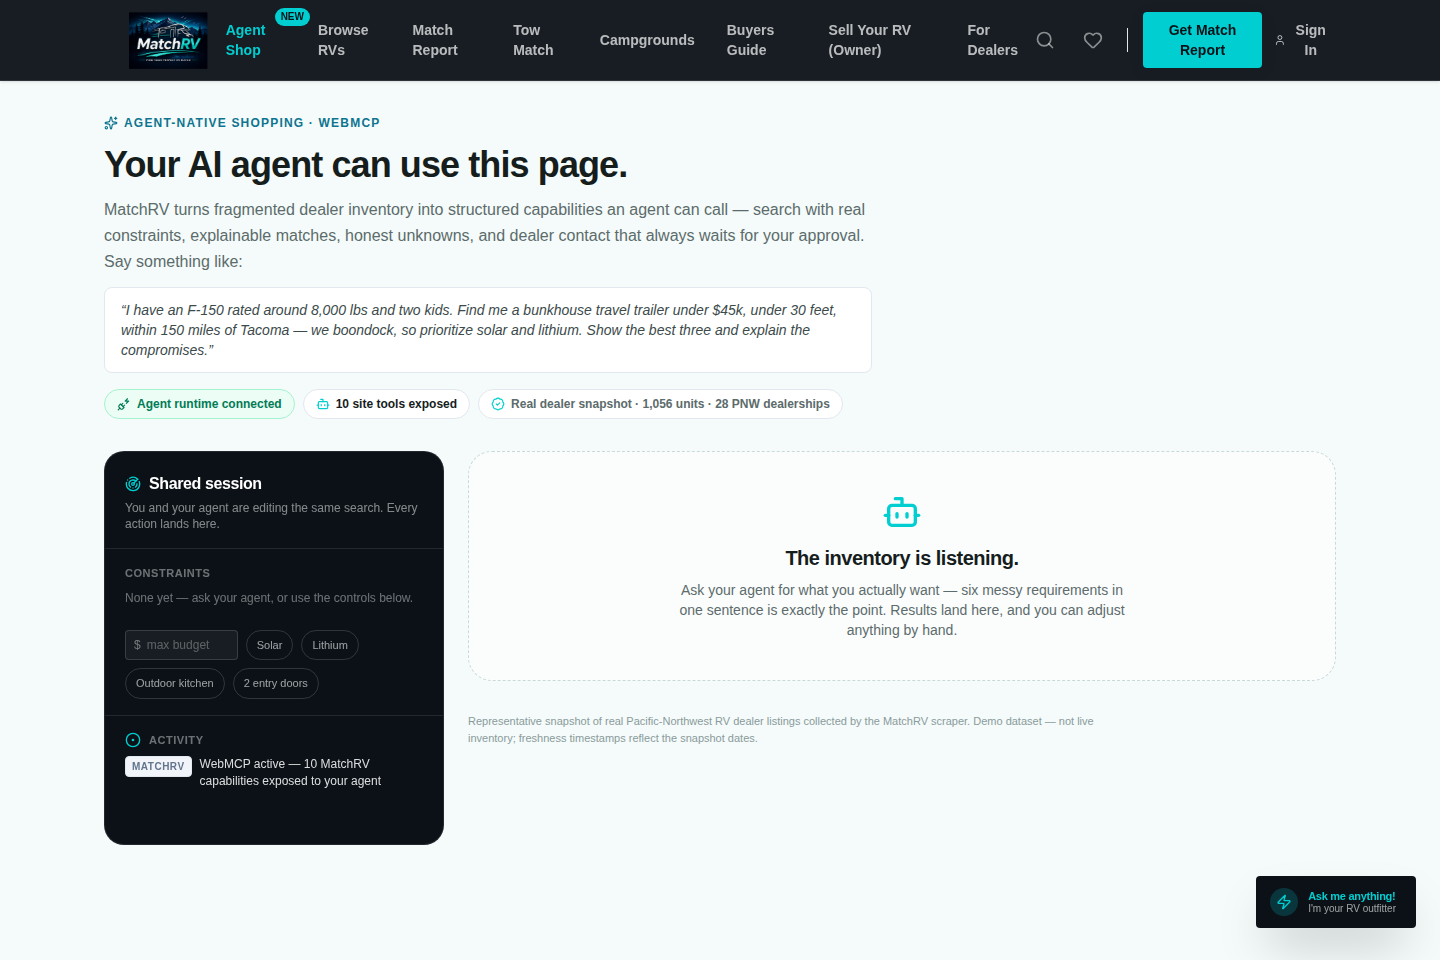
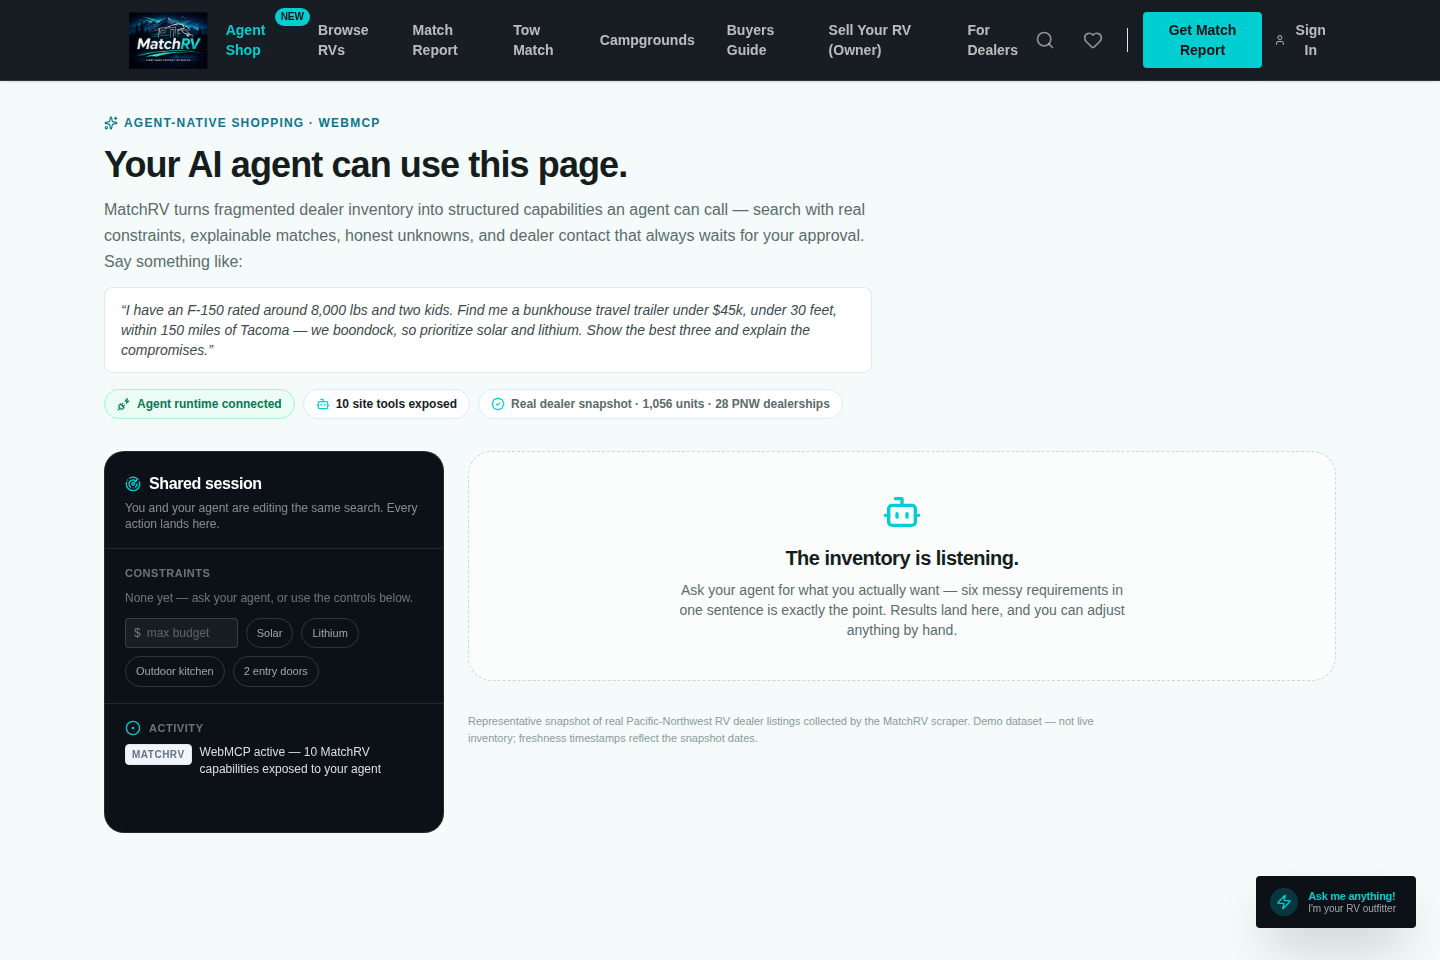
docs: three-pillars round — demo-case evidence, pillar scores, fresh captures
WEBMCP_TEST_RESULTS gains a fifth verification layer: the judge's demo
conversation run verbatim through the native runtime, 12/12, with the
per-turn evidence table; all suite counts and the all-packages typecheck
claim updated. JUDGING_MATRIX adds the SEARCH/TRUST/ACTION self-audit
(9/9/9 with evidence pointers) and retires the legacy-type-debt caveat now
that it is paid. README documents the demo-case command. Screenshots
refreshed across the E2E, native, and pillar sets — they now show the
grouped constraint rail, the tow assumptions block, the zero-verified
banner, the Freshness row, the NOT SENT banner, and the exact receipt.

Claude-Session: https://claude.ai/code/session_01RLcQ65XFXMN6goADN9J8bo

Changed region(s): [[0.0625, 0.8438, 0.3125, 0.9062], [0.0625, 0.75, 0.2812, 0.8125], [0.0938, 0.6562, 0.25, 0.7188]]

diff --git a/WEBMCP_TEST_RESULTS.md b/WEBMCP_TEST_RESULTS.md
@@ -1,6 +1,6 @@
-# WEBMCP_TEST_RESULTS — recorded runs (updated 2026-08-29, remediation round)
+# WEBMCP_TEST_RESULTS — recorded runs (updated 2026-08-29, three-pillars round)
 
-Four verification layers. Every result below was actually executed in this
+Five verification layers. Every result below was actually executed in this
 repository's environment; the one thing that remains untested is called out
 honestly at the end. Toolchain: Node v22.22.2, pnpm 10.33.0.
 
@@ -12,7 +12,11 @@ pnpm test             # 53 unit tests across three packages
 pnpm dev              # embedded DB, zero services
 pnpm e2e              # 23-step browser E2E (internal executor)
 pnpm --filter @workspace/scripts run native-webmcp   # NATIVE runtime (needs Chrome ≥149, see §3)
+pnpm --filter @workspace/scripts run demo-case       # the judge's demo conversation, natively (§4)
 ```
+
+`pnpm -r --if-present run typecheck` is clean across **every** workspace
+package (agent slice and legacy marketplace/mobile packages alike).
 
 ## 1. Unit suites — 53/53 passed
 
@@ -48,7 +52,7 @@ state. Run twice: against `pnpm dev` and against the **production bundle**
 | **submitted message byte-identical to the reviewed preview** | ✅ |
 | **decision replay after submission → 409 already_decided** | ✅ |
 | genuine zero-result search → recovery guidance + visible empty state | ✅ |
-| **reload → clean fresh session** (state is per-page-load by design, see §5) | ✅ |
+| **reload → clean fresh session** (state is per-page-load by design, see §6) | ✅ |
 | malformed args → field-level issues; unknown place → supported-place hint | ✅ |
 
 ## 3. NATIVE WebMCP runtime — 6/6 passed (real Chrome, real `document.modelContext`)
@@ -81,7 +85,29 @@ flags (origin-trial gated) and present under `--enable-features=WebMCPTesting`,
 `--enable-features=WebMCP`, `--enable-blink-features=WebMCP`, and
 `--enable-experimental-web-platform-features`.
 
-## 4. Production deployment behavior (single process, clean state)
+## 4. The exact demo conversation — 12/12 passed (native runtime)
+
+`scripts/src/demo-case.ts` walks the demo script's conversation *verbatim*
+through the browser's own `document.modelContext` (same Chrome 152 + flag as
+§3) and asserts the three pillars at every turn. Run log
+2026-08-29T14:34Z; screenshots `docs/screenshots/pillar-*.png`.
+
+| # | Turn | Verified |
+| --- | --- | --- |
+| 1 | runtime | 10 tools discovered natively |
+| 2 | *"…bunkhouse travel trailer under $45k, under 30 ft, within 150 mi of Tacoma, F-150, we boondock, solar+lithium, two entry doors"* | funnel 1,056 → 43 verified · 129 unverified · 884 excluded (sums exactly); verified listed first |
+| 3 | (same turn, UI) | rail separates **Hard requirements — must pass** / **Preferences — affect ranking only**; every chip removable by hand |
+| 4 | (same turn, honesty) | **Assumptions & unknowns**: F-150 config unknown → ratings span 5,000–13,500 lbs, filter only above the top rating, per-unit verdicts say "depends on config", asks for the door-sticker rating |
+| 5 | *"Actually, I'll go to $50k if I can get lithium and two doors."* | refine recomputes over all 1,056 (price → $50k; lithium + 2 doors promoted to hard) |
+| 6 | (zero-verified honesty) | **0 verified** stated plainly — "No unit satisfies every hard requirement." banner + data-gap candidates offered; nothing fabricated |
+| 7 | (ranking) | among unverified, fewest unknown hard checks rank first; agent list = page list (identical top 3) |
+| 8 | *"Compare the best three."* | side-by-side of true values; unpublished cells say **Unknown**; "never fills gaps with guesses" pledge on-screen |
+| 9 | *"Why is #1 better for me than #2?"* | #1 68 vs #2 67 with ✓/△/? receipts, additive score math, and a **Freshness** row (status + last-verified date + snapshot caveat) in the Why panel |
+| 10 | *"Contact the dealer about #1."* | preview card with **NOT SENT — review before submitting** banner, full payload + consent line; approval token absent from every tool result |
+| 11 | (adversarial) | agent submit → refused with guidance; **forged-token HTTP approve → 403**; second submit still refused |
+| 12 | *"Send it."* (after human Approve) | receipt: ✓ Lead sent / Dealer / Unit / Time / Reference #; duplicate submit blocked; delivery line says nothing reaches a real dealership |
+
+## 5. Production deployment behavior (single process, clean state)
 
 - `pnpm build:web` and `pnpm build:api` run with **zero env vars**.
 - `node artifacts/api-server/dist/index.cjs` from empty state: embedded DB
@@ -98,7 +124,7 @@ flags (origin-trial gated) and present under `--enable-features=WebMCPTesting`,
   "AKIA…" hits are case-insensitive false positives inside the model-viewer
   library; verified not AWS-shaped).
 
-## 5. Session/state model (verified, documented — not overclaimed)
+## 6. Session/state model (verified, documented — not overclaimed)
 
 The shared shopping session is **in-memory, per page load**. It survives SPA
 navigation between routes; a browser reload intentionally starts a fresh
@@ -106,7 +132,7 @@ session (verified in §2) and tools re-register cleanly. Nothing is persisted
 server-side except staged lead previews (30-min TTL) and submitted lead rows.
 `localStorage`/session persistence is deliberately not claimed.
 
-## 6. What remains genuinely untested (submission-blocking until done)
+## 7. What remains genuinely untested (submission-blocking until done)
 
 1. **A real agent choosing and phrasing the tool calls itself** — i.e. the
    ChatGPT desktop app's in-app browser (or another WebMCP-capable agent
@@ -115,7 +141,7 @@ server-side except staged lead previews (30-min TTL) and submitted lead rows.
    registration/discovery/execution through the real `document.modelContext`;
    agent behavior on top of it is not fabricated here.
 2. **The public HTTPS deployment** — no hosting credentials in this
-   environment. Everything §4 verifies is the exact artifact `render.yaml`
+   environment. Everything §5 verifies is the exact artifact `render.yaml`
    deploys.
 
 ### Manual verification procedure (Jonathan, ~15 minutes, after deploy)

diff --git a/JUDGING_MATRIX.md b/JUDGING_MATRIX.md
@@ -1,4 +1,4 @@
-# JUDGING_MATRIX — rescored after independent review + remediation (2026-08-29)
+# JUDGING_MATRIX — rescored after the three-pillars hardening round (2026-08-29)
 
 Official Devpost criteria (equally weighted): **WebMCP Leverage · Execution ·
 Potential Impact · Creativity & Ambition.** Scores reflect *verified
@@ -13,7 +13,8 @@ pointers reference WEBMCP_TEST_RESULTS.md (WTR).
   `getTools()` returns the full surface with schemas + annotations;
   `executeTool()` drives search → bidirectional shared-state sync →
   compare/explain → the human-gated contact. 6/6 automated steps, on dev and
-  on the production bundle (WTR §3, `native-0*.png`).
+  on the production bundle (WTR §3, `native-0*.png`) — plus the judge's demo
+  conversation verbatim, 12/12 natively (WTR §4, `pillar-*.png`).
 - Registration verified against a mocked current-shape runtime too: ten
   tools exactly once, idempotent remount, `$schema`-free JSON Schemas,
   `readOnlyHint`/`untrustedContentHint`, no approval capability reachable
@@ -43,8 +44,9 @@ tier this environment cannot produce. Manual procedure ready (WTR §6).
 
 **Why not higher:** no public HTTPS deployment yet (hosting access is
 outside this environment) — and "a working live app" is a submission
-requirement; legacy pages retain known TypeScript debt (documented, off the
-demo path). Both are the gap between 8 and 10.
+requirement. That single gap is the distance to 10: the codebase itself now
+typechecks clean across every workspace package (the legacy marketplace/mobile
+type debt was paid down in this round, not just documented).
 
 ## 3. Potential Impact — **9/10**
 
@@ -64,6 +66,21 @@ LLM-free deterministic site under an agent-reasoning layer. Showcase check
 (2026-08-29) still shows no comparable high-consideration marketplace entry.
 **Why not 10:** the concept's novelty ultimately gets judged against a field
 we can't fully see until submissions close.
+
+## The three pillars (SEARCH · TRUST · ACTION) — self-audit after hardening
+
+Scored against the product bar ("dramatically better than an agent scraping
+websites"), each verified by the 12-step native demo-case suite (WTR §4):
+
+| Pillar | Score | Evidence |
+| --- | --- | --- |
+| **SEARCH** — messy intent → inspectable, refinable constraints | **9/10** | One sentence with seven mixed requirements compiles to labeled **Hard / Preferences / Assumptions & unknowns** groups, every chip human-removable; refinement recomputes the full 1,056-unit funnel (43→0 verified honestly stated); tow ambiguity surfaces its own range and asks for the door-sticker number instead of guessing. |
+| **TRUST** — every claim has receipts | **9/10** | Per-check ✓/△/? with actual values, additive score math, per-fact source tags, freshness row (status + last-verified + snapshot caveat) in the Why panel; unknowns never rendered as no; zero-verified states say so in words; unverified ranking is fewest-data-gaps-first with agent/page parity. |
+| **ACTION** — write path a human can trust | **9/10** | NOT SENT banner until the human clicks Approve; agent submit refused with guidance; forged-token HTTP approve → 403; immutable reviewed payload; exact ✓ Lead sent / Dealer / Unit / Time / Reference receipt; duplicates blocked; delivery line never claims a real dealership was contacted. |
+
+Why none is a 10: the last point in each pillar belongs to the live
+agent-phrasing pass (WTR §7) — an agent's own wording driving these flows on
+the deployed site.
 
 ## "Why would a judge NOT pick this?" — updated after remediation
 

diff --git a/README.md b/README.md
@@ -95,6 +95,8 @@ pnpm build:web && pnpm build:api && node artifacts/api-server/dist/index.cjs
                   # single-process production deploy (SPA + API + embedded DB)
 pnpm --filter @workspace/scripts run native-webmcp
                   # NATIVE runtime test — requires any Chrome ≥149 (see below)
+pnpm --filter @workspace/scripts run demo-case
+                  # the full demo conversation, verbatim, through the native runtime
 ```
 
 ### Using it with a real agent
@@ -253,6 +255,12 @@ Zod v4 (schemas → JSON Schema) · Vitest · Playwright · WebMCP
   and the production bundle.
 - `pnpm --filter @workspace/scripts run native-webmcp` — **6-step NATIVE
   runtime test** through a real Chrome's own `document.modelContext`.
+- `pnpm --filter @workspace/scripts run demo-case` — **12-step native run of
+  the demo conversation itself**: constraint compilation with hard/soft/unknown
+  separation, honest zero-verified refinement, most-verified-first ranking,
+  receipts + freshness in the Why panel, and the NOT-SENT → approve → exact
+  receipt contact flow, with forged-token approval attempts refused.
+- `pnpm -r --if-present run typecheck` — clean across every workspace package.
 - Results + evidence: [WEBMCP_TEST_RESULTS.md](./WEBMCP_TEST_RESULTS.md)
 
 ## Current limitations
